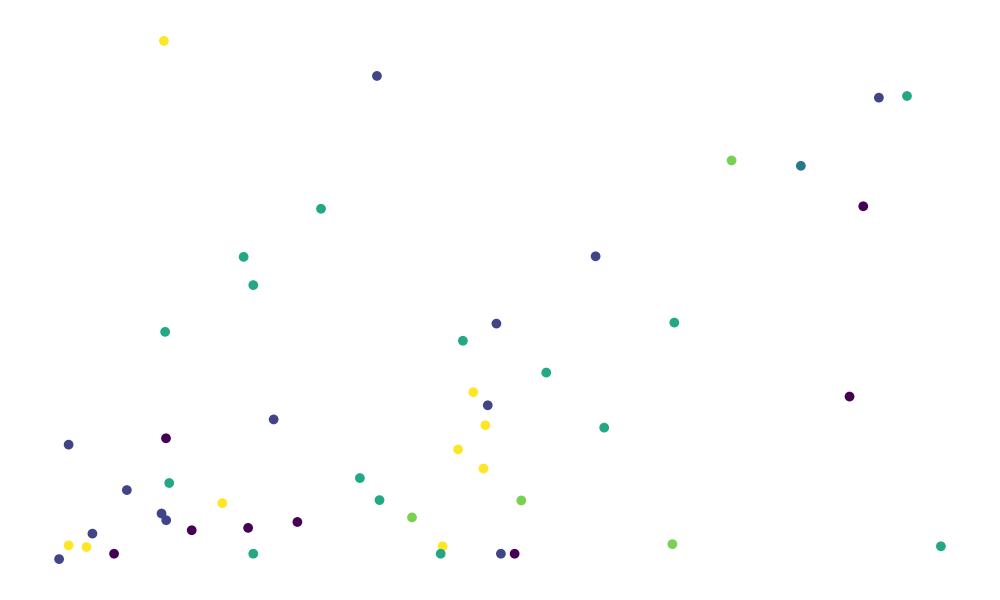
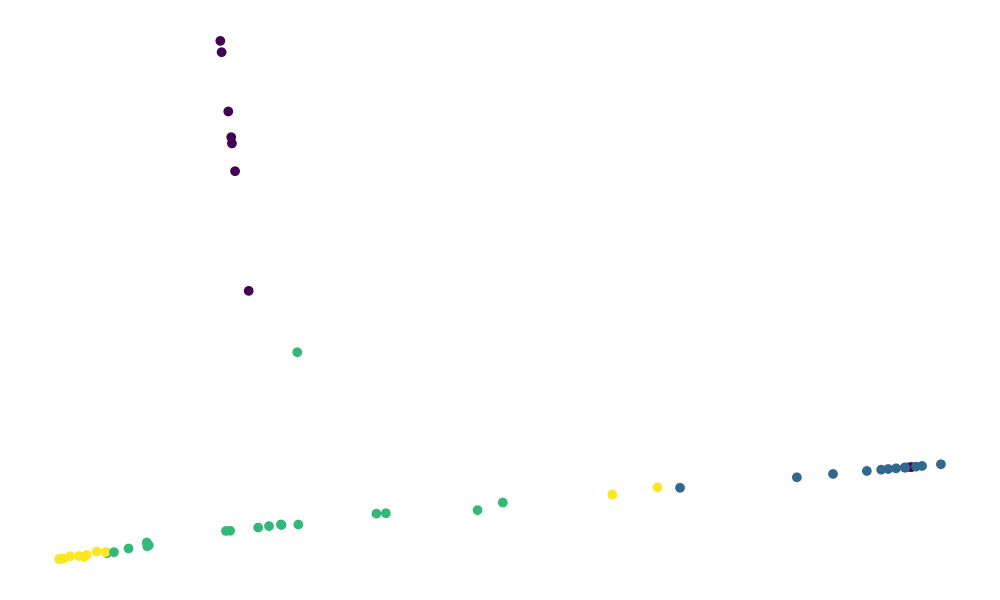
Refractor

diff --git a/Patrones/Tarea_03/Parte_02/Scripts/Modules/graphics.py b/Patrones/Tarea_03/Parte_02/Scripts/Modules/graphics.py
@@ -14,21 +14,22 @@ def plot_image(path: str, filename: str, ax: plt.subplot, position: list) -> Non
     ax.add_artist(ab)
 
 
-def plot(model, names, parameters: dict) -> None:
+def plot(model, names, parameters: dict, include_images: bool = True, alpha: float = 0.5, color: str = "#370617") -> None:
     fig, ax = plt.subplots(figsize=(10, 6))
     ax.scatter(model.results["Component 1"],
                model.results["Component 2"],
-               alpha=0.5,
-               color="#370617")
-    for index in model.animals_index:
-        animal_image = "{}.jpg".format(names[index])
-        position = [model.results["Component 1"][index],
-                    model.results["Component 2"][index]]
-        plot_image(parameters["path graphics animales"],
-                   animal_image,
-                   ax,
-                   position
-                   )
+               alpha=alpha,
+               c=color)
+    if include_images:
+        for index in model.animals_index:
+            animal_image = "{}.jpg".format(names[index])
+            position = [model.results["Component 1"][index],
+                        model.results["Component 2"][index]]
+            plot_image(parameters["path graphics animales"],
+                       animal_image,
+                       ax,
+                       position
+                       )
     plt.axis("off")
     plt.tight_layout()
     plt.savefig(join_path(parameters["path graphics"],

diff --git a/Patrones/Tarea_03/Parte_02/Scripts/SOM.py b/Patrones/Tarea_03/Parte_02/Scripts/SOM.py
@@ -1,7 +1,7 @@
-from Modules.functions import join_path, obtain_parameters, plot_image
-from Modules.models import SOM_model_class
+from Modules.models import LLE_model_class, SOM_model_class
+from Modules.functions import obtain_parameters
 from Modules.dataset import data_class
-import matplotlib.pyplot as plt
+from Modules.graphics import plot
 
 parameters = obtain_parameters()
 parameters["file graphics"] = "SOM.png"
@@ -10,11 +10,11 @@ SOM_model = SOM_model_class()
 SOM_model.run(data.matrix)
 SOM_model.create_classes_dataframe(data.names)
 print(SOM_model.classes)
-fig, ax = plt.subplots(figsize=(10, 6))
-ax.scatter(data.matrix[:, 0],
-           data.matrix[:, 1],
-           c=SOM_model.results)
-plt.axis("off")
-plt.tight_layout()
-plt.savefig(join_path(parameters["path graphics"],
-                      parameters["file graphics"]))
+LLE_model = LLE_model_class()
+LLE_model.run(data.matrix)
+plot(LLE_model,
+     data.names,
+     parameters,
+     include_images=False,
+     alpha=1,
+     color=SOM_model.results)

diff --git a/Patrones/Tarea_03/Parte_02/Scripts/Modules/models.py b/Patrones/Tarea_03/Parte_02/Scripts/Modules/models.py
@@ -67,7 +67,7 @@ class SOM_model_class:
 
     def run(self, data: array) -> DataFrame:
         model = SOM(n_columns=2,
-                    n_rows=3,
+                    n_rows=2,
                     random_state=1)
         self.results = model.fit_predict(data)
 
